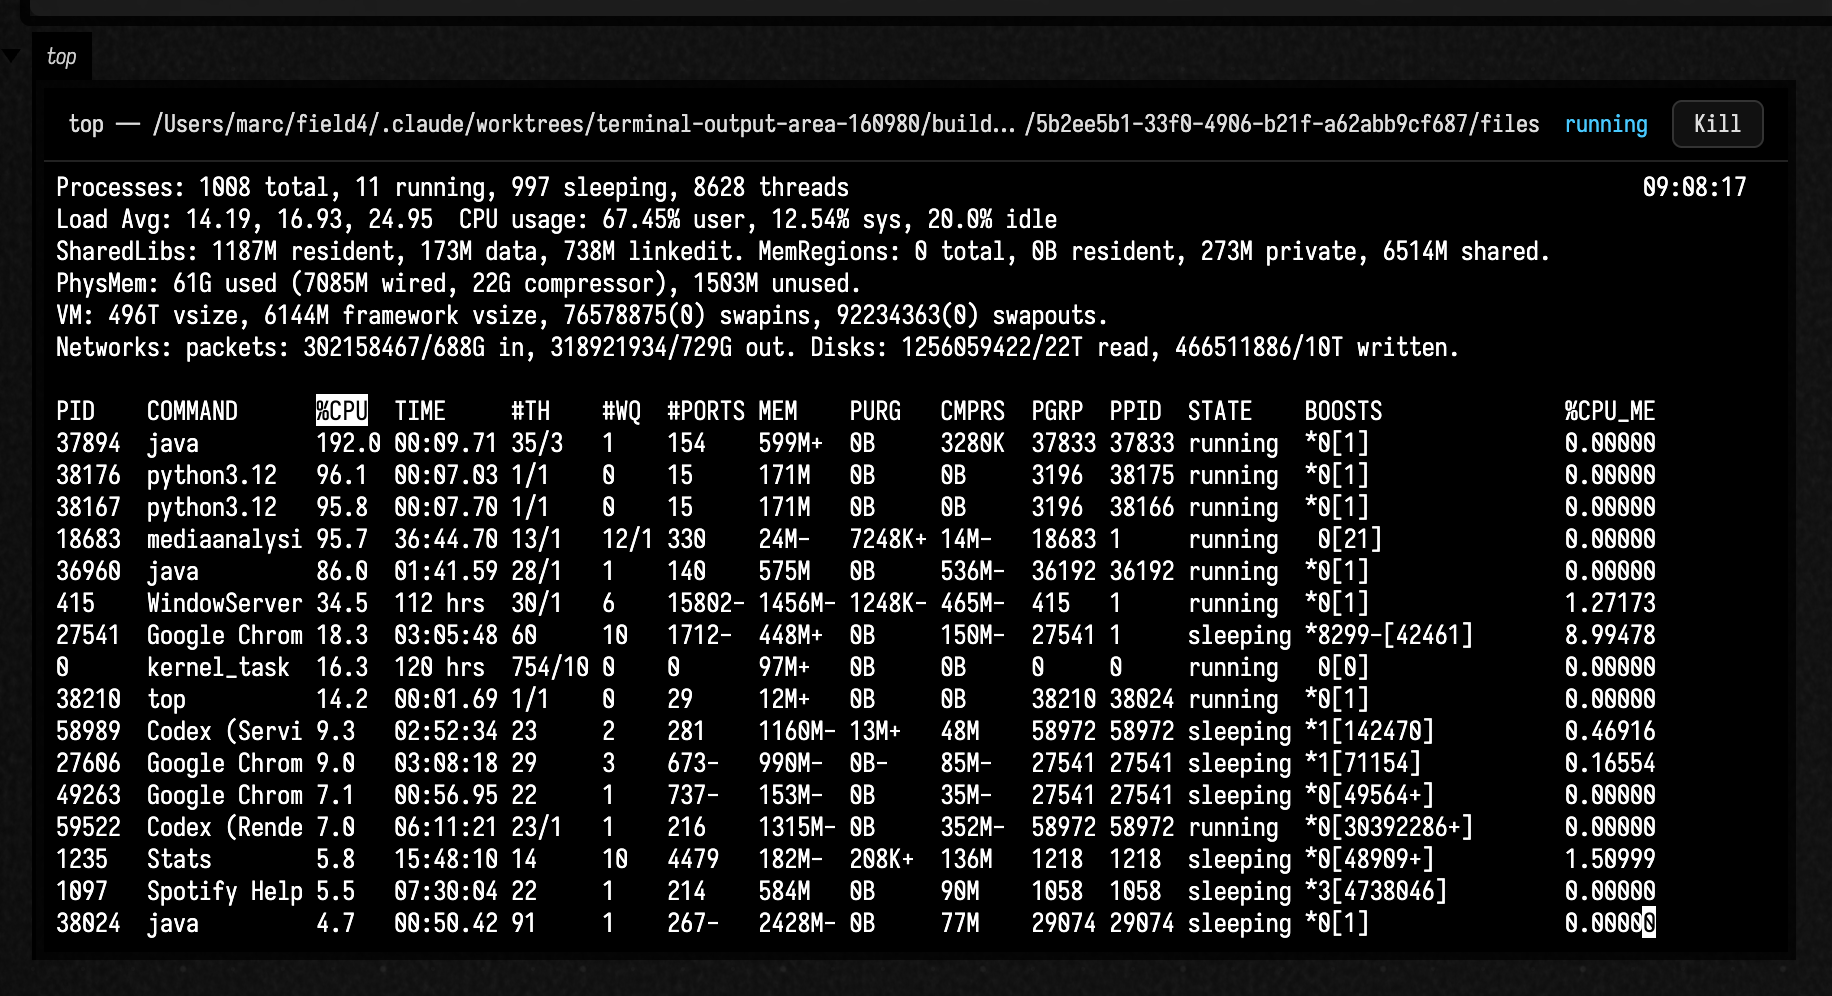
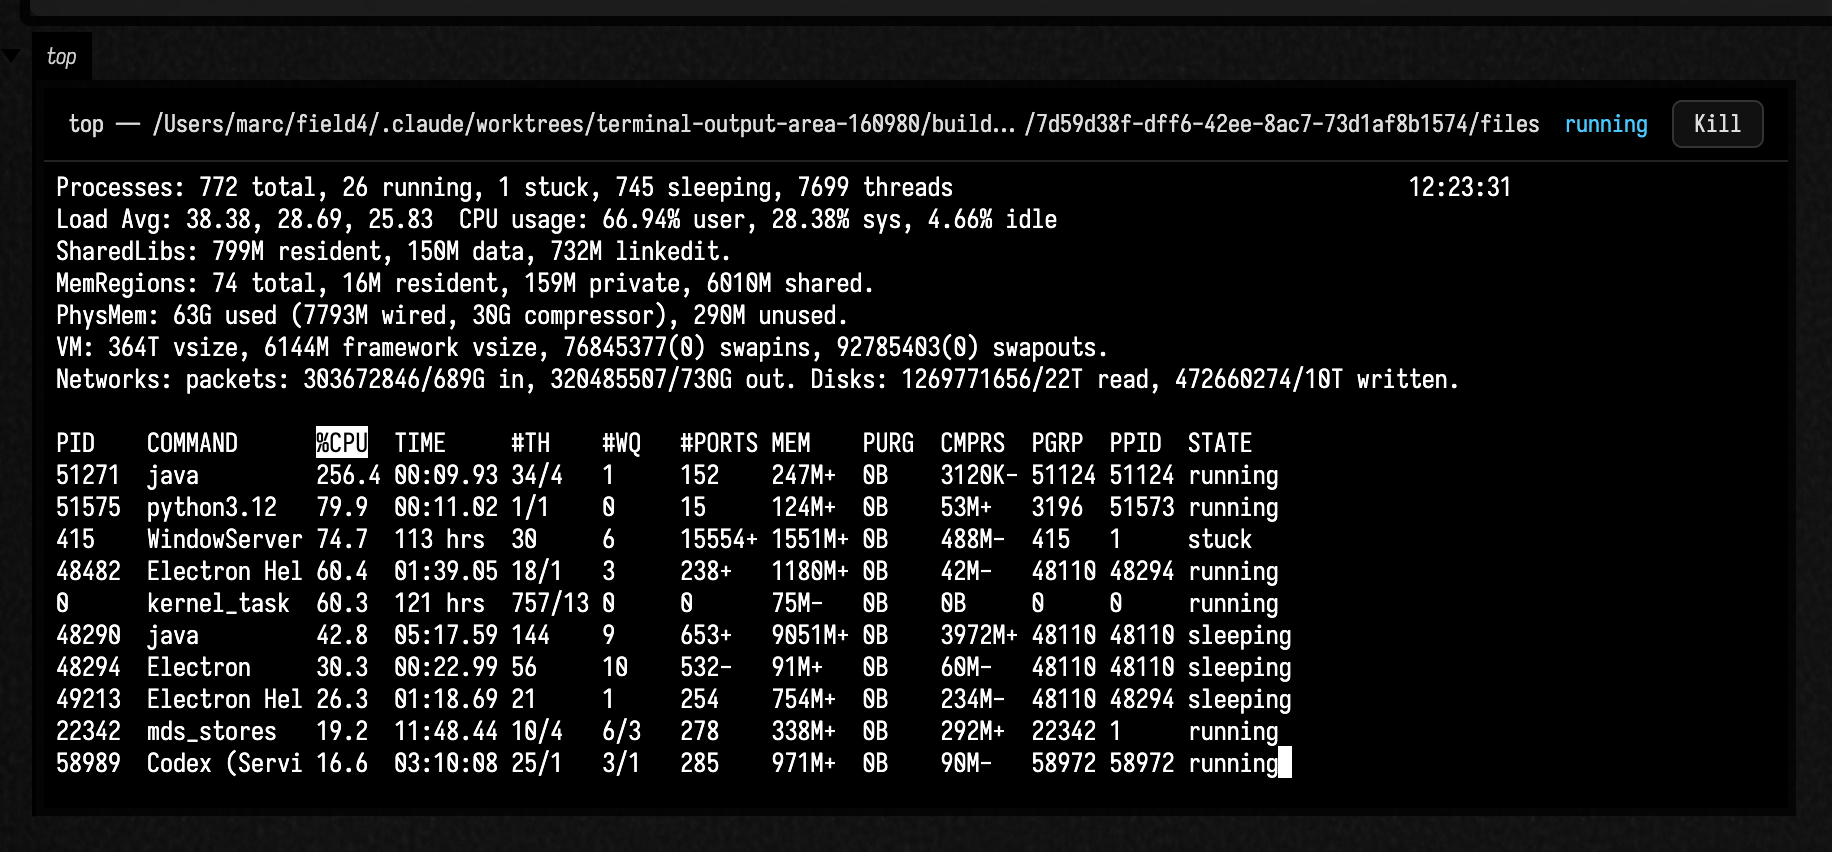
Box screenshots: an iframe that states a pixel height keeps it
fitOutputDisclosuresForScreenshot floored iframe panels at 220px and added 36px of slack, and
the panel's height:100% iframe stretched into it, so a terminal(height = 160) figure showed a
256px panel nobody sees live. Panels holding only pixel-height iframes now get exactly that.

Changed region(s): [[0.0311, 0.0915, 0.9645, 0.946], [0.8401, 0.3967, 0.9023, 0.946], [0.0311, 0.061, 0.0622, 0.0915]]

diff --git a/src/jsMain/kotlin/afield/Main.kt b/src/jsMain/kotlin/afield/Main.kt
@@ -1620,11 +1620,30 @@ private fun fitOutputDisclosuresForScreenshot(outputArea: HTMLElement) {
                 content.querySelector("svg") != null -> 260.0
                 else -> 120.0
             }
-            val targetHeight = max(minimumHeight, naturalHeight + 36.0)
+            // Iframes that state a pixel height (`terminal`, `keyframeBrowser`) are the size they asked
+            // for in the live panel. The floor and slack below would stretch them, since a panel's
+            // iframe is `height:100%`, and the figure would show a panel nobody sees.
+            val declaredIframeHeight = declaredIframeHeightOrNull(content)
+            val targetHeight = if (declaredIframeHeight != null) {
+                val style = window.getComputedStyle(content)
+                declaredIframeHeight + parsePixelsOrZero(style.paddingTop) + parsePixelsOrZero(style.paddingBottom)
+            } else max(minimumHeight, naturalHeight + 36.0)
                 .coerceAtMost(maxDisclosureHeight)
             content.style.height = "${targetHeight}px"
         }
 }
+
+/** The tallest declared pixel height, when every element in [content] is an iframe that declares one. */
+private fun declaredIframeHeightOrNull(content: HTMLElement): Double? {
+    val children = content.children.asList().mapNotNull { it as? HTMLElement }
+    if (children.isEmpty() || children.any { it.tagName.uppercase() != "IFRAME" }) return null
+    val heights = children.map { child ->
+        child.style.height.trim().takeIf { it.endsWith("px") }?.removeSuffix("px")?.toDoubleOrNull() ?: return null
+    }
+    return heights.maxOrNull()?.takeIf { it > 0.0 }
+}
+
+private fun parsePixelsOrZero(value: String): Double = value.trim().removeSuffix("px").toDoubleOrNull() ?: 0.0
 
 // A `data-afield-autosize="off"` frame that declares no width of its own has no width to report and
 // none to contribute here. `outputareas2.js` (`fillWidthForDisclosure`) deliberately gives such a

diff --git a/public/docs/terminal.md b/public/docs/terminal.md
@@ -71,7 +71,7 @@ This box drives a Python session, waiting for its prompt and then for the answer
 
 ```diffstatic_runner {data-lang=kotlin screenshot="assets/terminal/python_session.png" capture="box" wait="6" padding="16" timeout="180" embed=true name="terminal-python-session" w="560" h="200" alt="A Field box with an open output panel titled 'py' holding a black terminal. Its header reads python3, the directory and 'running'. In the terminal, Python's prompt shows '6 * 7' typed at it, then 42 on the next line, then a fresh prompt."}
 go {
-    val py = terminal("py", command = ["python3", "-q"], height = 160)
+    val py = terminal("py", command = ["python3", "-q"], height = 110)
     py.awaitOutput(">>> ")
     val answer = py.sendAndAwait("6 * 7", Regex("""\d+"""))
     print("the answer is ${answer.value}")
